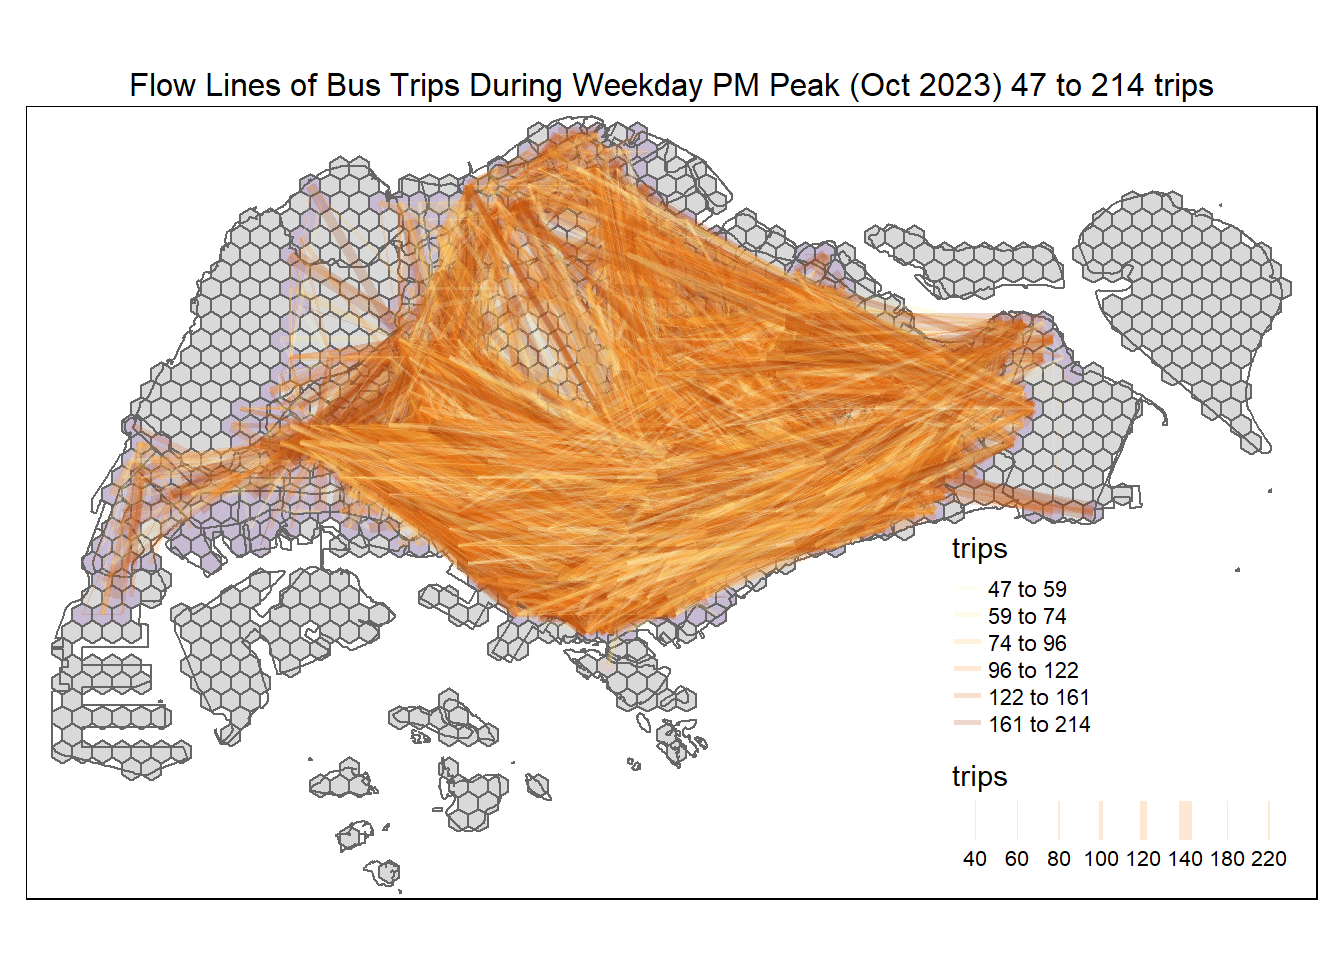
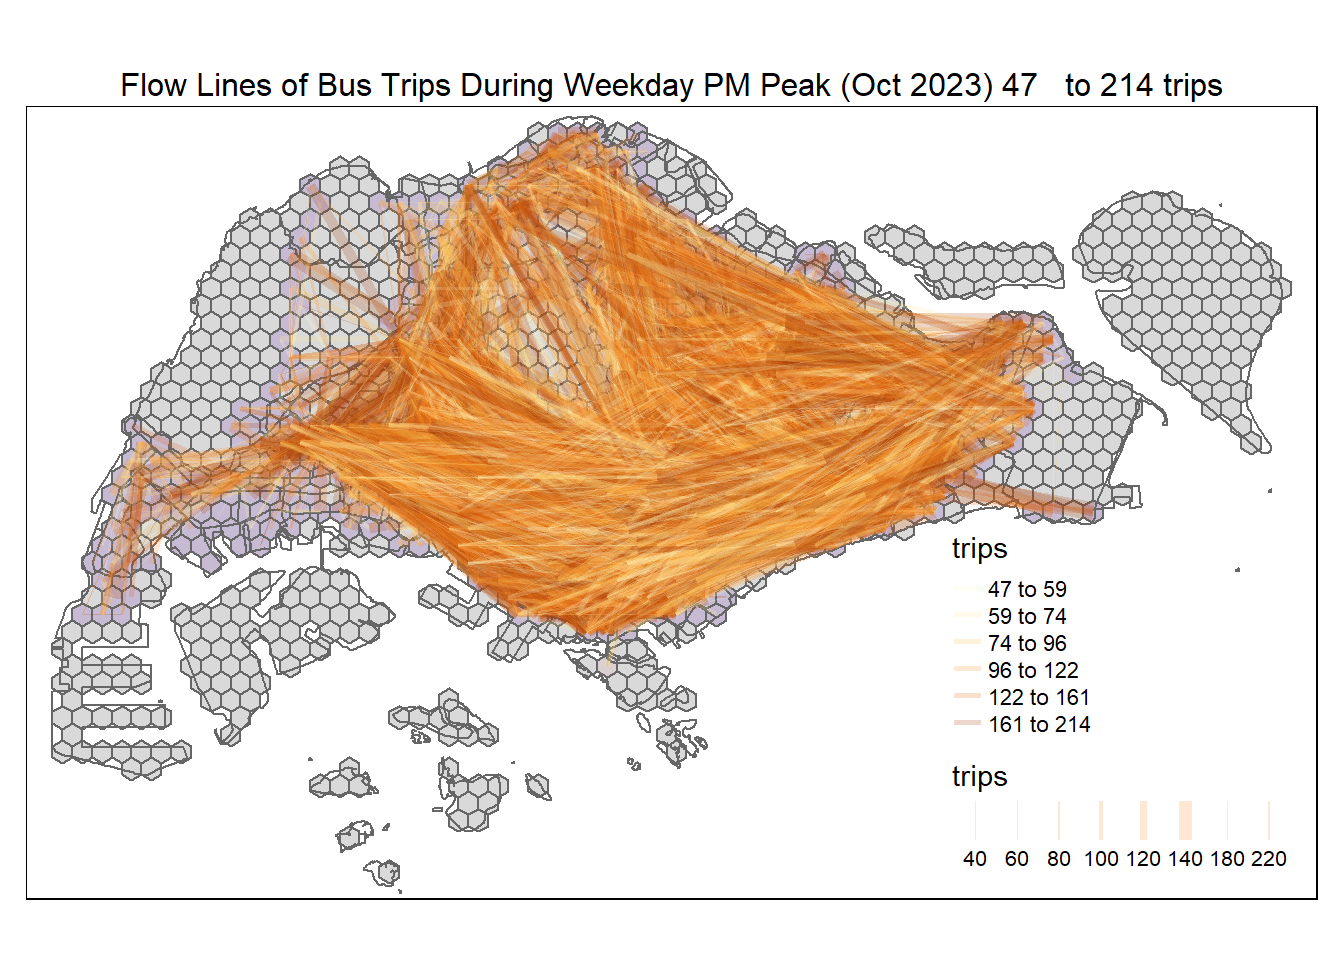
Commit Take-home Ex02

Changed region(s): [[0.0938, 0.0625, 0.9062, 0.125]]

diff --git a/_site/Take_Home_Ex/Take_home_Ex02/Take_home_Ex02.html b/_site/Take_Home_Ex/Take_home_Ex02/Take_home_Ex02.html
@@ -893,7 +893,7 @@ Projected CRS: SVY21 / Singapore TM
 <span id="cb41-30"><a href="#cb41-30" aria-hidden="true" tabindex="-1"></a>           <span class="at">n =</span> <span class="dv">6</span>,</span>
 <span id="cb41-31"><a href="#cb41-31" aria-hidden="true" tabindex="-1"></a>           <span class="at">alpha =</span> <span class="fl">0.2</span>,</span>
 <span id="cb41-32"><a href="#cb41-32" aria-hidden="true" tabindex="-1"></a>           <span class="at">col =</span> <span class="st">"trips"</span>) <span class="sc">+</span></span>
-<span id="cb41-33"><a href="#cb41-33" aria-hidden="true" tabindex="-1"></a><span class="fu">tm_layout</span>(<span class="at">main.title =</span> <span class="st">"Flow Lines of Bus Trips During Weekday PM Peak (Oct 2023) 47 to 214 trips"</span>,</span>
+<span id="cb41-33"><a href="#cb41-33" aria-hidden="true" tabindex="-1"></a><span class="fu">tm_layout</span>(<span class="at">main.title =</span> <span class="st">"Flow Lines of Bus Trips During Weekday PM Peak (Oct 2023) 47   to 214 trips"</span>,</span>
 <span id="cb41-34"><a href="#cb41-34" aria-hidden="true" tabindex="-1"></a>          <span class="at">main.title.position =</span> <span class="st">"center"</span>,</span>
 <span id="cb41-35"><a href="#cb41-35" aria-hidden="true" tabindex="-1"></a>          <span class="at">main.title.size =</span> <span class="dv">1</span>)</span></code><button title="Copy to Clipboard" class="code-copy-button"><i class="bi"></i></button></pre></div>
 </details>
@@ -936,7 +936,7 @@ Projected CRS: SVY21 / Singapore TM
 <span id="cb42-28"><a href="#cb42-28" aria-hidden="true" tabindex="-1"></a>           <span class="at">style =</span> <span class="st">"quantile"</span>,</span>
 <span id="cb42-29"><a href="#cb42-29" aria-hidden="true" tabindex="-1"></a>           <span class="at">scale =</span> <span class="fu">c</span>(<span class="fl">0.1</span>,<span class="dv">1</span>,<span class="dv">3</span>,<span class="dv">5</span>,<span class="dv">7</span>,<span class="dv">15</span>),</span>
 <span id="cb42-30"><a href="#cb42-30" aria-hidden="true" tabindex="-1"></a>           <span class="at">n =</span> <span class="dv">6</span>,</span>
-<span id="cb42-31"><a href="#cb42-31" aria-hidden="true" tabindex="-1"></a>           <span class="at">alpha =</span> <span class="dv">1</span>,</span>
+<span id="cb42-31"><a href="#cb42-31" aria-hidden="true" tabindex="-1"></a>           <span class="at">alpha =</span> <span class="fl">0.2</span>,</span>
 <span id="cb42-32"><a href="#cb42-32" aria-hidden="true" tabindex="-1"></a>           <span class="at">col =</span> <span class="st">"trips"</span>) <span class="sc">+</span></span>
 <span id="cb42-33"><a href="#cb42-33" aria-hidden="true" tabindex="-1"></a><span class="fu">tm_layout</span>(<span class="at">main.title =</span> <span class="st">"Flow Lines of Bus Trips During Weekday PM Peak (Oct 2023) &gt; 214 trips"</span>,</span>
 <span id="cb42-34"><a href="#cb42-34" aria-hidden="true" tabindex="-1"></a>          <span class="at">main.title.position =</span> <span class="st">"center"</span>,</span>
